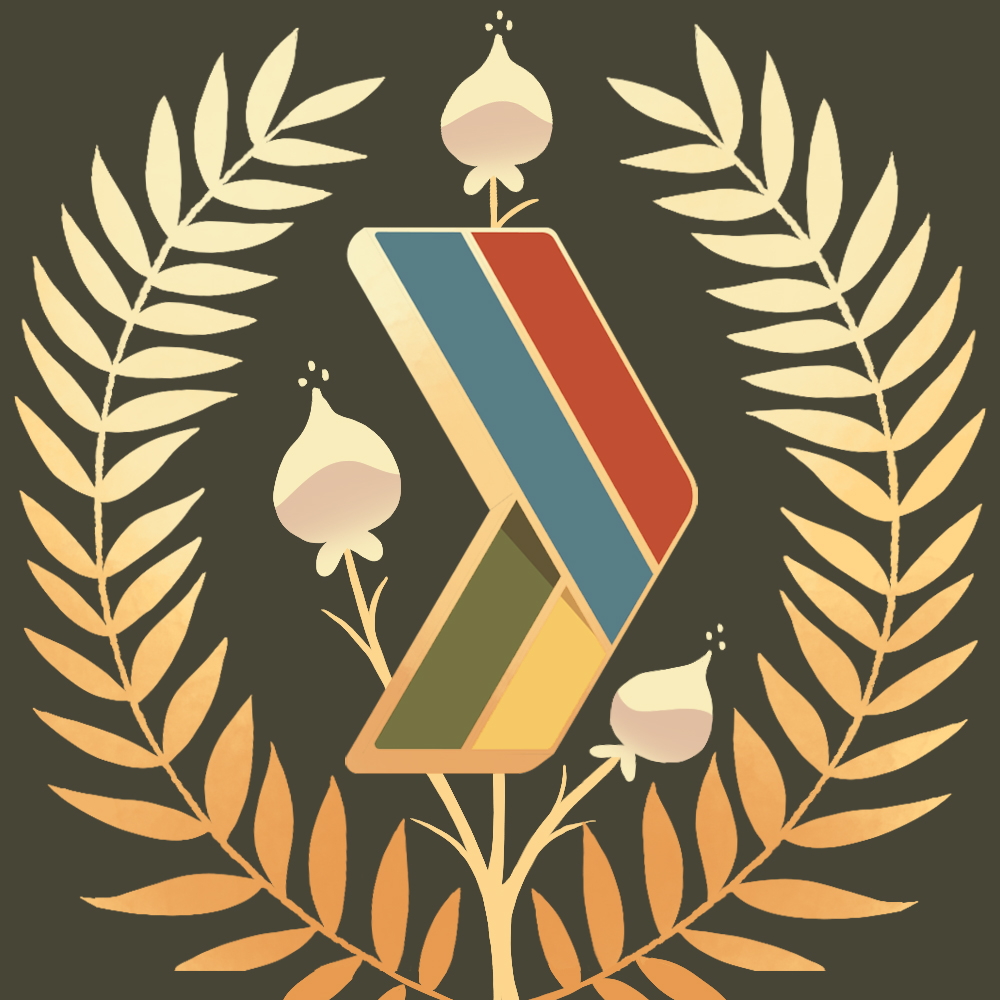
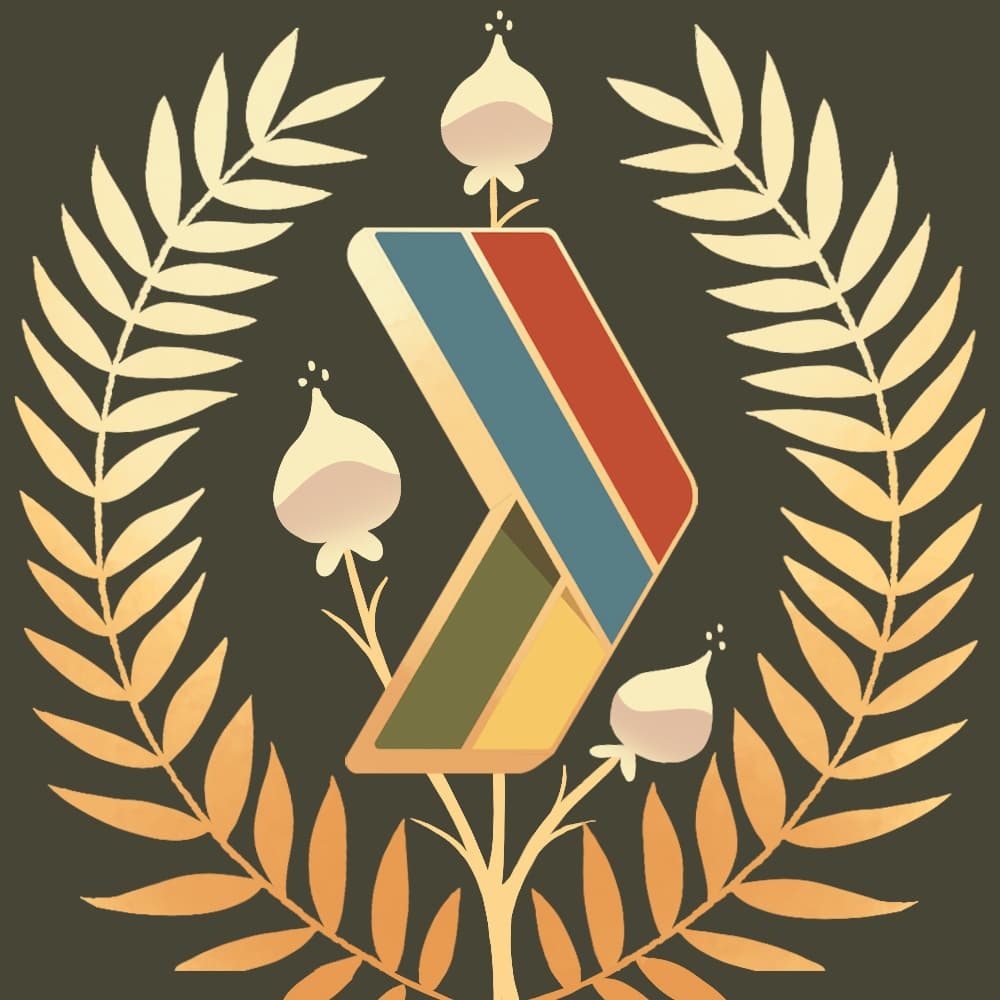
update images

diff --git a/src/components/home/home.scss b/src/components/home/home.scss
@@ -81,7 +81,7 @@
 
     &::before {
       background-color: var(--primary-dark);
-      background-image: url("/images/chevron-stylise.png");
+      background-image: url("/images/chevron-stylise.jpg");
       background-repeat: no-repeat;
       background-position: center;
       background-size: 75%;
